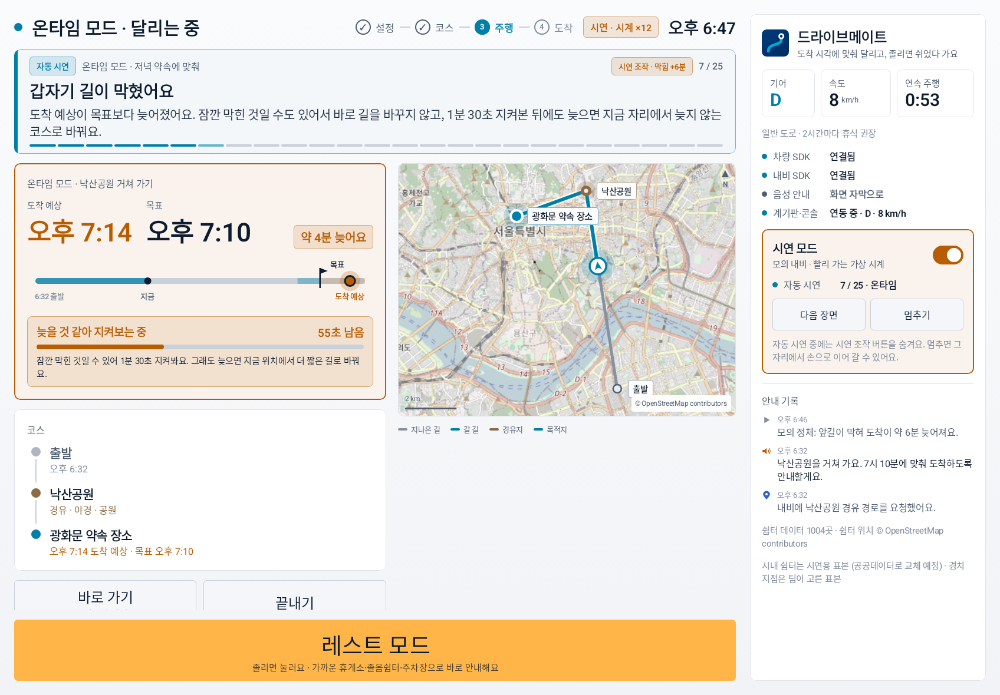
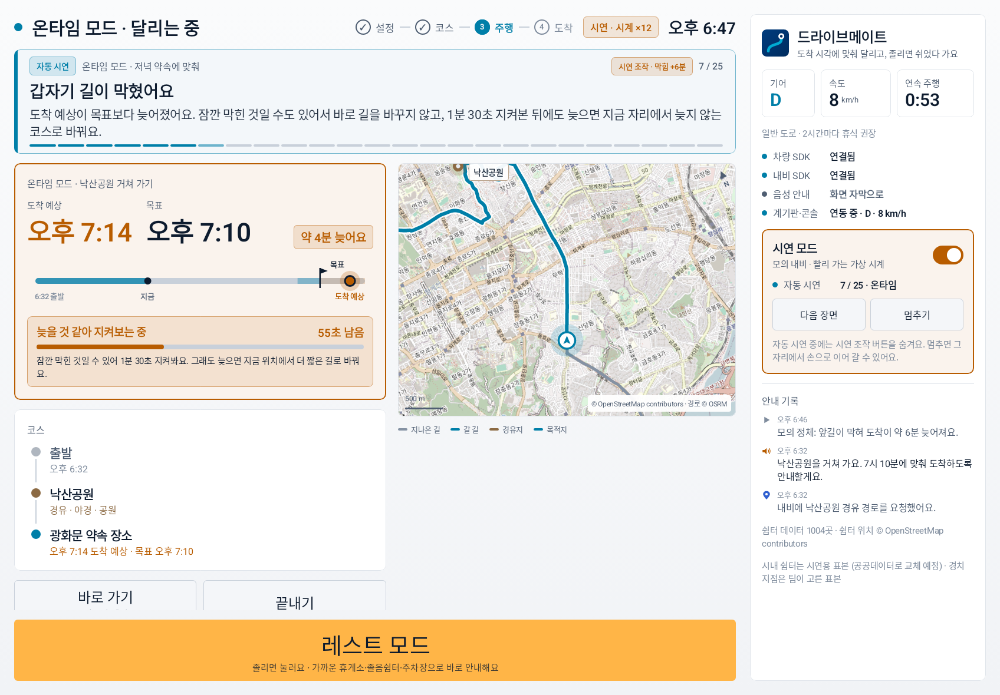
미니맵: 경로가 바뀐 곳에서는 달리던 방향으로 길을 받기, README·캡처 반영
도중에 경로가 바뀐 곳에서 이어 그리는 구간은 달리던 방향(±60°)을 길찾기에 함께 넘겨,
나뉜 도로(고속도로)에서 맞은편 차로로 출발해 돌아오는 길이 나오지 않게 한다.

Changed region(s): [[0.372, 0.2115, 0.744, 0.6043]]

diff --git a/app/src/main/java/kr/contest/pleosapp/ui/RoadRoutes.kt b/app/src/main/java/kr/contest/pleosapp/ui/RoadRoutes.kt
@@ -21,7 +21,12 @@ import java.util.concurrent.Executors
 import kotlin.math.max
 import kotlin.math.roundToInt
 
-/** 도로 길을 받을 구간 (양 끝을 약 10m 단위로 반올림해 같은 구간을 다시 받지 않는다) */
+/**
+ * 도로 길을 받을 구간. [bearing]은 출발할 때 달리던 방향 (모르면 null): 길찾기가 맞은편 차로에서 출발하지 않게 한다.
+ */
+internal data class RoadLeg(val from: LatLng, val to: LatLng, val bearing: Double? = null)
+
+/** 받아 둔 도로 길의 열쇠 (양 끝을 약 10m 단위로 반올림해 같은 구간을 다시 받지 않는다) */
 internal data class LegKey(val fromLat: Int, val fromLon: Int, val toLat: Int, val toLon: Int) {
     companion object {
         fun of(from: LatLng, to: LatLng) = LegKey(
@@ -47,6 +52,9 @@ internal object RoadRoutes {
     const val ATTRIBUTION = "경로 © OSRM"
     private const val ROUTE_URL =
         "https://router.project-osrm.org/route/v1/driving/%.6f,%.6f;%.6f,%.6f?overview=full&geometries=geojson&steps=false&alternatives=false"
+
+    /** 출발 방향을 아는 구간: 그 방향 ±60° 안의 도로에서 출발 */
+    private const val BEARING_PARAM = "&bearings=%d,60;"
     private const val USER_AGENT =
         "DriveMate/0.1 (Hyundai Motor Group in-car app contest; +https://github.com/sjb8032/hmg-app-challenge-2026)"
 
@@ -82,19 +90,19 @@ internal object RoadRoutes {
     fun get(from: LatLng, to: LatLng): List<LatLng>? = loaded[LegKey.of(from, to)]
 
     /** 도로 길을 받아 둔다. 이미 있거나 받는 중이거나 방금 실패했거나 짧은 구간은 건너뛴다 */
-    fun request(legs: List<Pair<LatLng, LatLng>>) {
+    fun request(legs: List<RoadLeg>) {
         if (mode == MapTiles.Mode.OFF) return
-        for ((from, to) in legs) {
+        for ((from, to, bearing) in legs) {
             val key = LegKey.of(from, to)
             if (key in loaded || key in pending || recentlyFailed(key)) continue
             if (Geo.distanceMeters(from, to) < MIN_LEG_METERS) continue
             if (mode == MapTiles.Mode.BLOCKING) {
-                runCatching { load(from, to) }.getOrNull()?.let { put(key, it) }
+                runCatching { load(from, to, bearing) }.getOrNull()?.let { put(key, it) }
                 continue
             }
             pending += key
             executor.execute {
-                val path = runCatching { load(from, to) }.getOrNull()
+                val path = runCatching { load(from, to, bearing) }.getOrNull()
                 main.post {
                     pending -= key
                     if (path != null) {
@@ -118,7 +126,7 @@ internal object RoadRoutes {
             remember(ui) { repeat(3) { request(roadLegsFor(ui)) } }
         } else {
             val legs = roadLegsFor(ui)
-            val keys = legs.map { LegKey.of(it.first, it.second) }
+            val keys = legs.map { LegKey.of(it.from, it.to) }
             LaunchedEffect(keys) { request(legs) }
         }
     }
@@ -136,13 +144,13 @@ internal object RoadRoutes {
     }
 
     /** 기기에 저장한 길이 있으면 그것을, 없으면 서버에 묻고 저장한다 */
-    private fun load(from: LatLng, to: LatLng): List<LatLng>? {
+    private fun load(from: LatLng, to: LatLng, bearing: Double?): List<LatLng>? {
         val key = LegKey.of(from, to)
         val file = dir?.let { File(it, "${key.fromLat}_${key.fromLon}_${key.toLat}_${key.toLon}.txt") }
         if (file != null && file.exists()) {
             decodeFile(file.readText())?.let { return finish(from, to, it) }
         }
-        val points = fetch(from, to) ?: return null
+        val points = fetch(from, to, bearing) ?: return null
         if (file != null) runCatching { file.writeText(points.joinToString(";") { "${it.lat},${it.lon}" }) }
         return finish(from, to, points)
     }
@@ -154,12 +162,14 @@ internal object RoadRoutes {
         return RoadPath.thin(path, minGap)
     }
 
-    private fun fetch(from: LatLng, to: LatLng): List<LatLng>? {
+    private fun fetch(from: LatLng, to: LatLng, bearing: Double?): List<LatLng>? {
         // 1초에 한 번 넘게 묻지 않는다
         val wait = lastAskAt + MIN_GAP_MS - System.currentTimeMillis()
         if (wait > 0) Thread.sleep(wait)
         lastAskAt = System.currentTimeMillis()
-        val url = URL(String.format(Locale.ROOT, ROUTE_URL, from.lon, from.lat, to.lon, to.lat))
+        val base = String.format(Locale.ROOT, ROUTE_URL, from.lon, from.lat, to.lon, to.lat)
+        val heading = bearing?.let { ((it % 360.0 + 360.0) % 360.0).roundToInt() % 360 }
+        val url = URL(if (heading != null) base + String.format(Locale.ROOT, BEARING_PARAM, heading) else base)
         val conn = url.openConnection() as HttpURLConnection
         conn.setRequestProperty("User-Agent", USER_AGENT)
         conn.connectTimeout = 6_000

diff --git a/app/src/main/java/kr/contest/pleosapp/ui/RouteMap.kt b/app/src/main/java/kr/contest/pleosapp/ui/RouteMap.kt
@@ -136,7 +136,7 @@ private fun lerp(a: LatLng, b: LatLng, t: Double) = LatLng(a.lat + (b.lat - a.la
  * @param carNow 지금 달리는 구간이면 모의 차의 실제 자리 (도로 길이 없을 때 차를 그 자리에 그린다)
  */
 private class LegView(val leg: DriveLeg, val from: LatLng, val road: List<LatLng>?, carNow: LatLng?) {
-    private val f = leg.progress.toDouble()
+    val f = leg.progress.toDouble()
 
     /** 모의 차가 곧게 달려 닿은 자리 */
     val straightEnd: LatLng = lerp(leg.from, leg.to, f)
@@ -150,17 +150,25 @@ private class LegView(val leg: DriveLeg, val from: LatLng, val road: List<LatLng
 
 /**
  * 시연 구간들 (지난 구간 → 지금 구간). 도중에 경로가 바뀐 곳에서 시작한 구간은 앞 구간을 화면에 그린 자리(도로 위)에서 이어 그린다
- * (모의 차는 곧은 선 위에 있어 도로에서 떨어져 있을 수 있다). [road]로 두 곳 사이 도로 길을 읽는다.
+ * (모의 차는 곧은 선 위에 있어 도로에서 떨어져 있을 수 있다). 이때는 달리던 방향을 함께 넘겨, 길찾기가 맞은편 차로에서
+ * 출발해 돌아오는 길을 내지 않게 한다. [road]로 두 곳 사이 도로 길을 읽는다 (출발 방향을 알면 셋째 값).
  */
-private fun legViews(ui: UiState, road: (LatLng, LatLng) -> List<LatLng>?): List<LegView> {
+private fun legViews(ui: UiState, road: (LatLng, LatLng, Double?) -> List<LatLng>?): List<LegView> {
     val all = ui.legs + listOfNotNull(ui.leg)
     val out = ArrayList<LegView>(all.size)
     all.forEachIndexed { i, leg ->
         val prev = out.lastOrNull()
-        val from = if (prev != null && Geo.distanceMeters(leg.from, prev.straightEnd) < CHAIN_METERS) prev.end else leg.from
+        val chained = prev != null && Geo.distanceMeters(leg.from, prev.straightEnd) < CHAIN_METERS
+        val from = if (chained) prev!!.end else leg.from
+        // 도중에 바뀐 곳(앞 구간을 다 달리지 않음)에서만 달리던 방향을 이어 간다
+        val bearing = if (chained && prev!!.leg.progress < 1f) {
+            prev.road?.let { RoadPath.bearingAt(it, prev.f, aheadMeters = 60.0) } ?: Geo.bearingDegrees(prev.leg.from, prev.leg.to)
+        } else {
+            null
+        }
         val current = ui.leg != null && i == all.lastIndex
         val carNow = if (current && from == leg.from) ui.core.position else null
-        out += LegView(leg, from, road(from, leg.to), carNow)
+        out += LegView(leg, from, road(from, leg.to, bearing), carNow)
     }
     return out
 }
@@ -222,14 +230,14 @@ private fun standing(ui: UiState): Boolean = ui.demoClockHeld || (!ui.demoDrivin
  * 지금 장면에 필요한 도로 길 구간. 위치가 계속 바뀌는 차에서 시작하는 구간은 묻지 않는다
  * (시연의 달리는 구간은 시작점이 고정이라 묻는다, 코스 후보는 차가 서 있을 때만).
  */
-internal fun roadLegsFor(ui: UiState): List<Pair<LatLng, LatLng>> {
-    val out = LinkedHashSet<Pair<LatLng, LatLng>>()
-    legViews(ui) { a, b ->
-        out += a to b
+internal fun roadLegsFor(ui: UiState): List<RoadLeg> {
+    val out = LinkedHashSet<RoadLeg>()
+    legViews(ui) { a, b, bearing ->
+        out += RoadLeg(a, b, bearing)
         RoadRoutes.get(a, b)
     }
     val stops = stopsAhead(ui)
-    for (i in 0 until stops.lastIndex) out += stops[i] to stops[i + 1]
+    for (i in 0 until stops.lastIndex) out += RoadLeg(stops[i], stops[i + 1])
     val d = ui.drive
     val car = ui.core.position
     if (ui.core.phase == Phase.DRIVING && d.step == DriveStep.CHOOSE) {
@@ -237,8 +245,8 @@ internal fun roadLegsFor(ui: UiState): List<Pair<LatLng, LatLng>> {
         if (dest != null) {
             for (option in d.options) {
                 val chain = option.via.map { it.position } + dest.position
-                if (car != null && standing(ui)) out += car to chain.first()
-                for (i in 0 until chain.lastIndex) out += chain[i] to chain[i + 1]
+                if (car != null && standing(ui)) out += RoadLeg(car, chain.first())
+                for (i in 0 until chain.lastIndex) out += RoadLeg(chain[i], chain[i + 1])
             }
         }
     }
@@ -250,7 +258,7 @@ internal fun mapSceneFor(ui: UiState): MapScene {
     val s = ui.core
     val d = ui.drive
     val roads = RoadUse()
-    val views = legViews(ui, roads::get)
+    val views = legViews(ui) { a, b, _ -> roads.get(a, b) }
     val current = views.lastOrNull()?.takeIf { ui.leg != null }
     // 차: 시연에서는 지금 구간을 온 비율만큼 도로 길을 따라간 자리
     val car = current?.end ?: s.position

diff --git a/README.md b/README.md
@@ -41,7 +41,8 @@
 
 - **왼쪽 위**: 지금 모드와 단계(① 설정 › ② 코스 › ③ 주행 › ④ 도착), 지금 시각
 - **왼쪽 가운데**: 넓은 화면이면 조작·숫자 | 미니맵 두 칸
-  - **미니맵**: OpenStreetMap 지도(한글 지명) 위에 지나온 길(회색), 갈 길(모드 색), 코스 후보 번호(카드 번호와 같은 색), 경유지, 쉼터(P), 목적지, 진행 방향을 가리키는 차. 경로 모양은 SDK로 받을 수 없어 지점 사이를 곧은 선으로 잇습니다. 인터넷이 안 되면 격자 바탕의 도식 지도로 그대로 보입니다.
+  - **미니맵**: OpenStreetMap 지도(한글 지명) 위에 지나온 길(회색), 갈 길(모드 색), 코스 후보 번호(카드 번호와 같은 색), 경유지, 쉼터(P), 목적지, 진행 방향을 가리키는 차. 경로선·지나온 길·차는 실제 도로 모양(OSRM 길찾기)을 따라 그립니다. 달리는 중에는 차를 아래쪽 가운데 두고 진행 방향이 위로 오는 **주행 화면**으로, 코스를 고르거나 서 있을 때·도착하면 북쪽이 위인 **전체 보기**로 바뀝니다. 인터넷이 안 되면 격자 바탕에 곧은 선으로 그대로 보입니다.
+  - 시연의 모의 차는 시간 계산을 단순하게 두려고 지점 사이를 곧게 달리고, 화면에는 같은 진행 비율만큼 도로를 따라간 자리에 그립니다. 도중에 경로가 바뀌면 화면에 그린 자리(도로 위)에서 달리던 방향 그대로 이어 그립니다.
   - **도착 시각 막대**: 출발부터 목표까지의 시간 위에 지금 · 도착 예상 · 목표(깃발) · 들렀다 가는 곳. 목표 앞 3분은 여유 구간(하늘색), 목표 뒤는 늦음 구간(호박색). 늦을 것 같으면 "지켜보는 중 · N초 뒤에도 늦으면 더 짧은 길로"처럼 지금 하는 일을 한 줄로 알려 줍니다.
   - **쉬는 시간표**: 눈 붙이기 → 깨우기 → (기다리기) → 주행 → 도착, 그리고 목표
 - **왼쪽 아래**: 음성 안내 자막, 늘 있는 '레스트 모드' 버튼
@@ -52,7 +53,7 @@
 | 처음 화면 | 코스 고르기 (온타임) |
 | --- | --- |
 | ![처음 화면](docs/screens/1-home.png) | ![코스 고르기](docs/screens/2-choose.png) |
-| **달리는 중**: 도착 시각 막대·코스 목록·미니맵·음성 자막 | **막혀서 늦을 것 같을 때**: 1분 30초 지켜본 뒤 더 짧은 길로 |
+| **달리는 중**: 도착 시각 막대·코스 목록·주행 화면 미니맵·음성 자막 | **막혀서 늦을 것 같을 때**: 1분 30초 지켜본 뒤 더 짧은 길로 |
 | ![달리는 중](docs/screens/3-active.png) | ![늦음 지켜보는 중](docs/screens/4-watching-late.png) |
 | **레스트 모드**: 가장 빨리 닿는 쉼터로 안내 | **휴식**: 오후 3시 체크인에 맞춘 알람·출발 |
 | ![쉼터 안내](docs/screens/5-rest-guidance.png) | ![휴식](docs/screens/6-resting.png) |
@@ -69,8 +70,9 @@
 | 기어(휴식 시작·출발), 경고등(운전자 주의 경고), 공조·무드등 제어(휴식·깨우기·분위기) | Vehicle 2.3.2 |
 | (시연 모드에서만) 모의 차량의 기어·속도를 계기판·3D 주행 화면에 맞추기 | 에뮬레이터 Virtual Console (127.0.0.1:8088) |
 | 미니맵 바탕 지도 | OpenStreetMap 표준 타일 (tile.openstreetmap.org, 키 없음) |
+| 미니맵 경로 모양 (화면에 그리는 데만) | OSRM 길찾기 (router.project-osrm.org, 키 없음) |
 
-인터넷은 에뮬레이터 안의 Virtual Console(127.0.0.1)과 미니맵 지도 타일(HTTPS)에만 씁니다. 평문 통신은 127.0.0.1·localhost만 허용합니다(`res/xml/network_security_config.xml`).
+인터넷은 에뮬레이터 안의 Virtual Console(127.0.0.1)과 미니맵 지도 타일·경로 모양(HTTPS)에만 씁니다. 평문 통신은 127.0.0.1·localhost만 허용합니다(`res/xml/network_security_config.xml`).
 
 ## 실행 방법
 
@@ -157,7 +159,7 @@
 
 ## 알려진 한계
 
-- 경로 모양은 SDK로 받을 수 없어, 코스 후보를 고를 때 직선거리 × 우회 계수로 추정합니다. 고른 뒤에는 내비 남은 시간으로 계속 고칩니다.
+- 경로 모양은 SDK로 받을 수 없어, 코스 후보를 고를 때 직선거리 × 우회 계수로 추정합니다. 고른 뒤에는 내비 남은 시간으로 계속 고칩니다. 미니맵의 도로 모양은 OSRM에서 받아 그리는 것이라 차 내비가 실제로 안내하는 길과 다를 수 있습니다.
 - 경로별 정체 정보는 받을 수 없어 '덜 막히는 길'은 만들지 않았습니다. 실제 정체는 달리는 중 내비 남은 시간으로 반영합니다.
 - 경치 지점(23곳)과 시내 쉴 곳(공원·공영 주차장 13곳)은 서울·강릉 일부의 시연용 표본이며 좌표는 대략 위치입니다. 그래서 '근처에서 기다리기'와 '+15분 더'가 곳에 따라 다 채우지 못할 수 있고, 그때는 "이 근처는 최대 N분 코스예요"처럼 알려 줍니다. 공공데이터(전국주차장정보표준데이터·도시공원정보표준데이터)로 바꿀 예정입니다.
 - Vehicle SDK에 차속 API가 없어 내비 위치 변화로 속도를 추정합니다.
@@ -168,6 +170,7 @@
 
 - 휴게소·졸음쉼터 위치: © OpenStreetMap contributors, [ODbL](https://opendatacommons.org/licenses/odbl/1-0/). 가공 방법은 `app/src/main/assets/rest_areas_LICENSE.txt`에 있습니다. 앱이 읽을 때 퀵서비스·주유소·정비소처럼 쉴 수 없는 항목과 도심에 잘못 찍힌 휴게소를 거르고(1,119곳 중 68곳), 같은 곳이 두 번 올라 있으면 하나로 합칩니다(58곳). 회사 이름·지역 이름뿐인 항목은 300m 안에 제대로 된 이름의 같은 곳이 있으면 뺍니다(2곳). 그래서 991곳을 씁니다 (`core/RestAreaCleaner.kt`).
 - 경치 지점·시내 쉴 곳: 팀이 고른 시연용 표본 (`app/src/main/java/kr/contest/pleosapp/data/CourseCatalog.kt`).
+- 미니맵 경로 모양: OSRM 길찾기 서버(OpenStreetMap 데이터). [이용 정책](https://github.com/Project-OSRM/osrm-backend/wiki/API%20Usage%20Policy)에 따라 앱 이름을 밝힌 User-Agent로 1초에 한 번까지만 묻고, 받은 길은 기기에 저장해 다시 묻지 않으며, 지도에 출처를 표시합니다(`ui/RoadRoutes.kt`).
 - 미니맵 지도: © OpenStreetMap contributors. [OSM 타일 이용 정책](https://operations.osmfoundation.org/policies/tiles/)에 따라 앱 이름을 밝힌 User-Agent로 미니맵 한 장에 필요한 타일만 받고, 받은 타일은 기기에 7일 저장해 다시 받지 않으며, 지도 오른쪽 아래에 출처를 표시합니다(`ui/MapTiles.kt`). 앱마켓 출시 때는 상용 지도 타일(네이버 지도 등)로 바꿀 예정입니다.
 
 ## APK 위치
